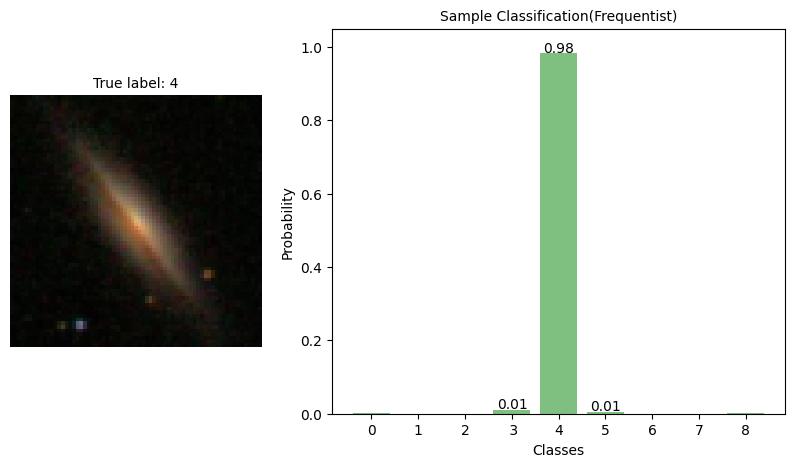
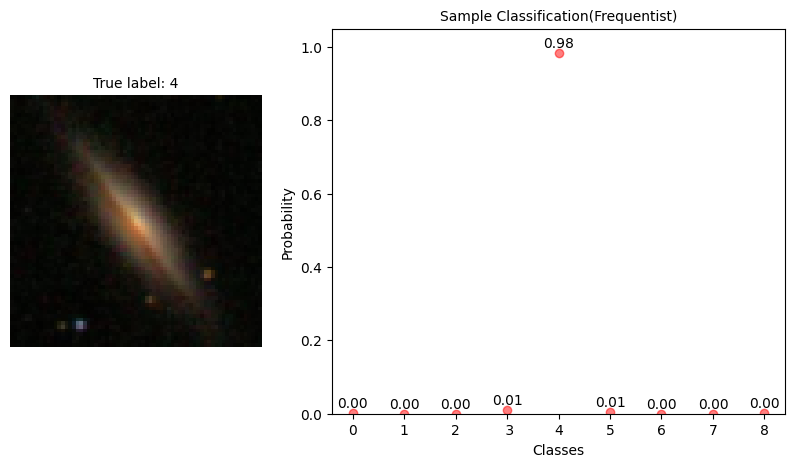
added updated plots

Changed region(s): [[0.4232, 0.06, 0.7859, 0.9293], [0.8766, 0.8394, 0.9975, 0.9293], [0.8161, 0.8394, 0.8463, 0.9293]]

diff --git a/utils.py b/utils.py
@@ -168,7 +168,8 @@ def plot_sample_with_confidence(sample_index=None, X_test=None, y_test=None, ens
     if style == 'bayesian':
         bars_bayes = ax2.bar(x, bottom=pct_2p5, height=bar_height, width=0.8, color=colours, alpha=0.5)
     else:
-        bars_freq  = ax2.bar(x, bottom=0, height = mean_probabilities, width = 0.8, color = colours, alpha = 0.5)
+        #bars_freq  = ax2.bar(x, bottom=0, height = mean_probabilities, width = 0.8, color = colours, alpha = 0.5)
+        scatter_freq = ax2.scatter(x, mean_probabilities, color='red', alpha=0.5)
     if style == 'bayesian':
         for i, bar in enumerate(bars_bayes):
             bar_x = bar.get_x()
@@ -196,14 +197,16 @@ def plot_sample_with_confidence(sample_index=None, X_test=None, y_test=None, ens
         ax2.legend(['Mean Probability', '2.5th percentile', '97.5th percentile'])
         ax2.text(0.05, 0.95, f'Mean Entropy: {mean_entropy:.2f}', transform=ax2.transAxes, bbox=dict(facecolor='white', edgecolor='black', boxstyle='round,pad=0.3'))
     else:
-        for i, bar in enumerate(bars_freq):
+        '''for i, bar in enumerate(bars_freq):
             bar_x = bar.get_x()
             bar_width = bar.get_width()
             bar_height = bar.get_height()
             mean_probability = mean_probabilities[i]
 
             if mean_probability>0.005:
-                ax2.text(bar_x+bar_width/10, mean_probability+0.015, f'{mean_probability:.2f}', verticalalignment='center')
+                ax2.text(bar_x+bar_width/10, mean_probability+0.015, f'{mean_probability:.2f}', verticalalignment='center')'''
+        for i, prob in enumerate(mean_probabilities):
+            ax2.text(x[i], prob+0.0075, f'{prob:.2f}', ha='center', va='bottom')
             
     ax2.set_xticks(x, ['0', '1', '2', ' 3', '4', '5', '6', '7', '8'])
     ax2.set_ylim([0, 1.05])
